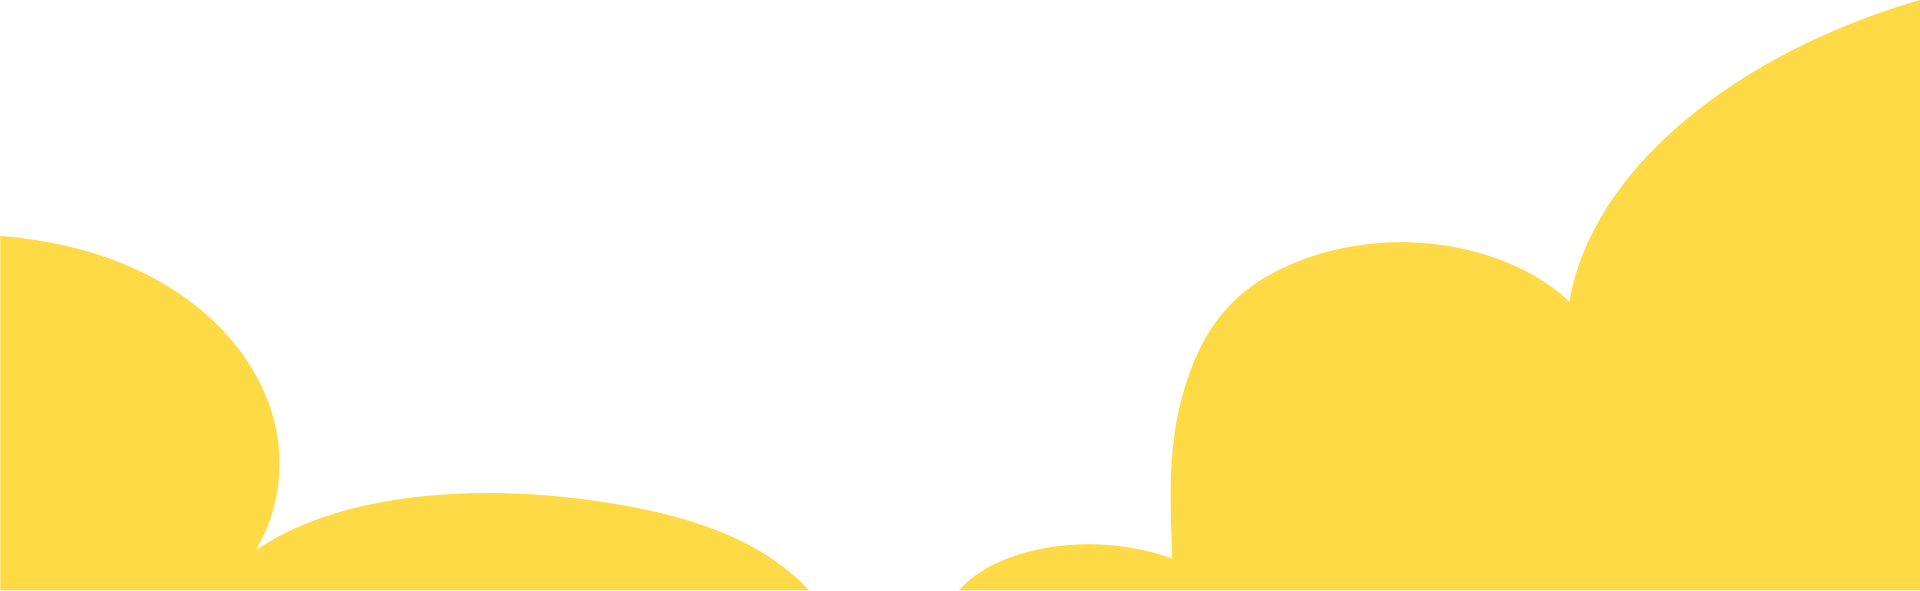
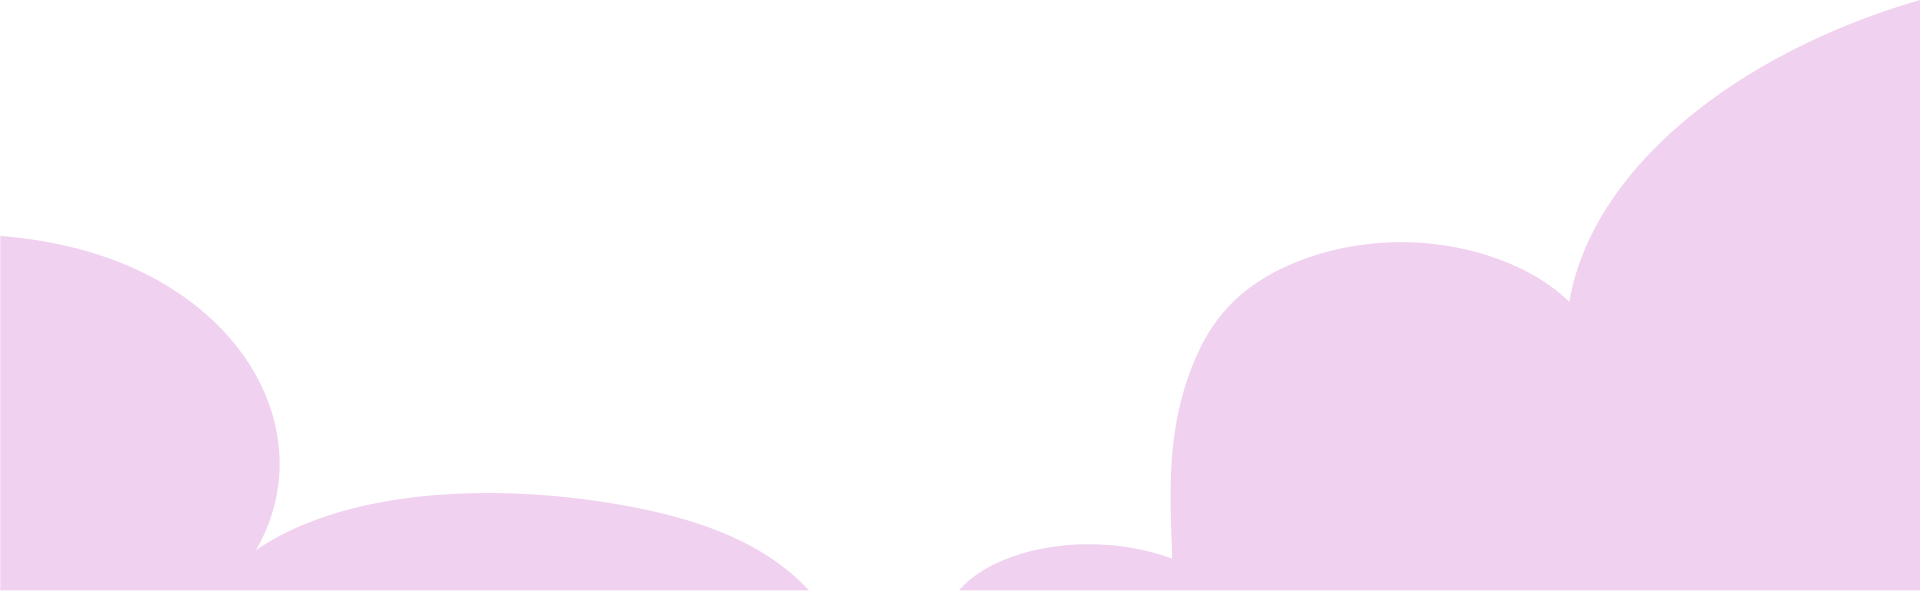
dss

diff --git a/index.html b/index.html
@@ -534,7 +534,7 @@
             --e-global-color-accent: #940C69;
             --e-global-color-31e4697: #FFF8E5;
             --e-global-color-4817e84: #666666;
-            --e-global-color-bf63d8e: #FEDA46;
+            --e-global-color-bf63d8e: #fcd5d2;
             --e-global-typography-primary-font-family: "Roboto";
             --e-global-typography-primary-font-weight: 600;
             --e-global-typography-secondary-font-family: "Roboto Slab";
@@ -2764,7 +2764,7 @@
     <style id="pxl-page-dynamic-css" data-type="redux-output-css">#pxl-wapper #pxl-main{padding-top:0px;padding-bottom:0px;}</style>
 </head>
 
-<body  class="home page-template-default page page-id-98 wp-custom-logo theme-patte woocommerce-no-js  pxl-redux-page elementor-default elementor-kit-6 elementor-page elementor-page-98">
+<body style="background-color: #fcd5d2;" class="home page-template-default page page-id-98 wp-custom-logo theme-patte woocommerce-no-js  pxl-redux-page elementor-default elementor-kit-6 elementor-page elementor-page-98">
     <div id="pxl-wapper" class="pxl-wapper">
         <div id="pxl-loadding" class="pxl-loader style-business">
             <div class="pxl-loader-effect">
@@ -2945,7 +2945,7 @@
 
                                             <div class="elementor-background-overlay"></div>
 
-                                            <div class="elementor-container elementor-column-gap-extended ">
+                                            <div class="elementor-container elementor-column-gap-extended " >
                                                 <div class="elementor-column elementor-col-100 elementor-top-column elementor-element elementor-element-c531d57 pxl-col-none pxl-column-none" data-id="c531d57" data-element_type="column">
                                                     <div class="elementor-widget-wrap elementor-element-populated">
 
@@ -3065,7 +3065,7 @@
                                                 </div>
                                             </div>
                                         </section>
-                                        <section style="" class="elementor-section elementor-top-section elementor-element elementor-element-5826f79 elementor-section-stretched elementor-section-boxed elementor-section-height-default elementor-section-height-default pxl-type-header-none pxl-bg-color-none pxl-row-scroll-none"
+                                        <section style="background-color: #fcd5d2;" class="elementor-section elementor-top-section elementor-element  elementor-section-stretched elementor-section-boxed elementor-section-height-default elementor-section-height-default pxl-type-header-none pxl-bg-color-none pxl-row-scroll-none"
                                         data-id="5826f79" data-element_type="section" data-settings="{&quot;stretch_section&quot;:&quot;section-stretched&quot;}">
 
                                         <style>
@@ -3077,7 +3077,7 @@
                                                 font-family: head;
                                             }
                                         </style>
-                                        <div class="elementor-container elementor-column-gap-extended ">
+                                        <div class="elementor-container elementor-column-gap-extended " >
                                             <div class="elementor-column elementor-col-50 elementor-top-column elementor-element elementor-element-b4266ab pxl-col-none pxl-column-none" data-id="b4266ab" data-element_type="column">
                                                 <div class="elementor-widget-wrap elementor-element-populated">
 
@@ -3132,7 +3132,7 @@ Lets all be a little more like Pops!
                                             </div>
                                         </div>
                                     </section>
-                                        <section class="elementor-section elementor-top-section elementor-element elementor-element-50dce7b elementor-section-stretched elementor-section-boxed elementor-section-height-default elementor-section-height-default pxl-type-header-none pxl-bg-color-none pxl-row-scroll-none"
+                                        <section style="background-color: #fcd5d2;" class="elementor-section elementor-top-section elementor-element elementor-element-50dce7b elementor-section-stretched elementor-section-boxed elementor-section-height-default elementor-section-height-default pxl-type-header-none pxl-bg-color-none pxl-row-scroll-none"
                                             data-id="50dce7b" data-element_type="section" data-settings="{&quot;stretch_section&quot;:&quot;section-stretched&quot;}">
 
                                         <div style="display: flex; justify-content: center; align-items: center;">
